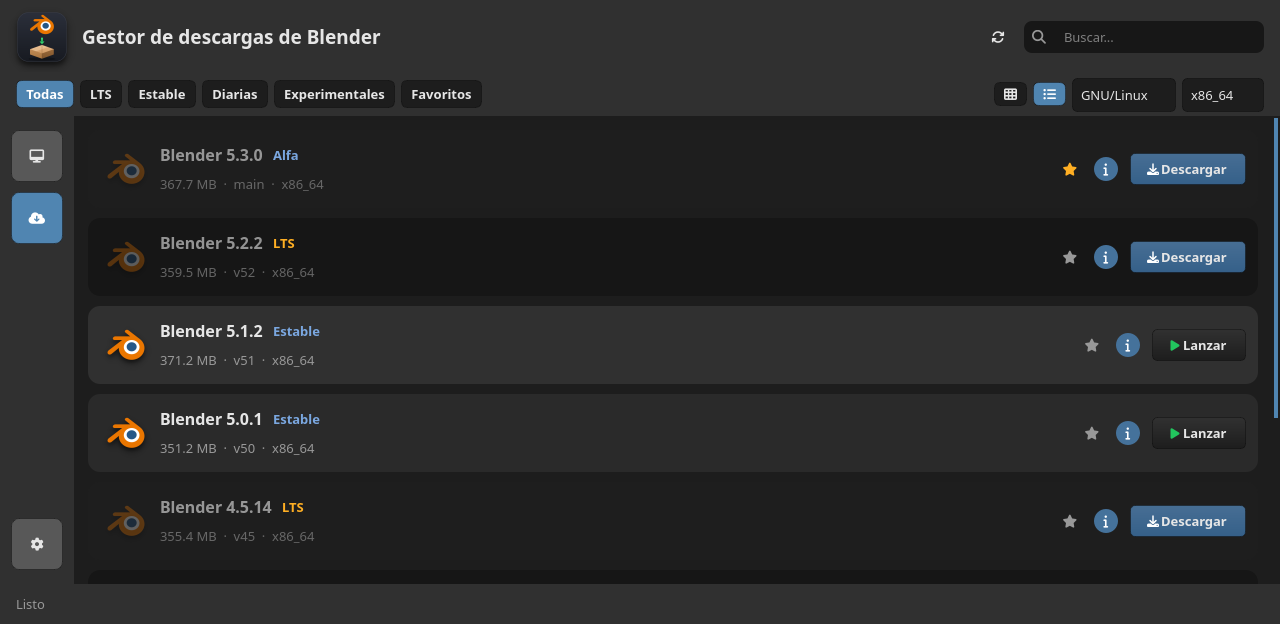
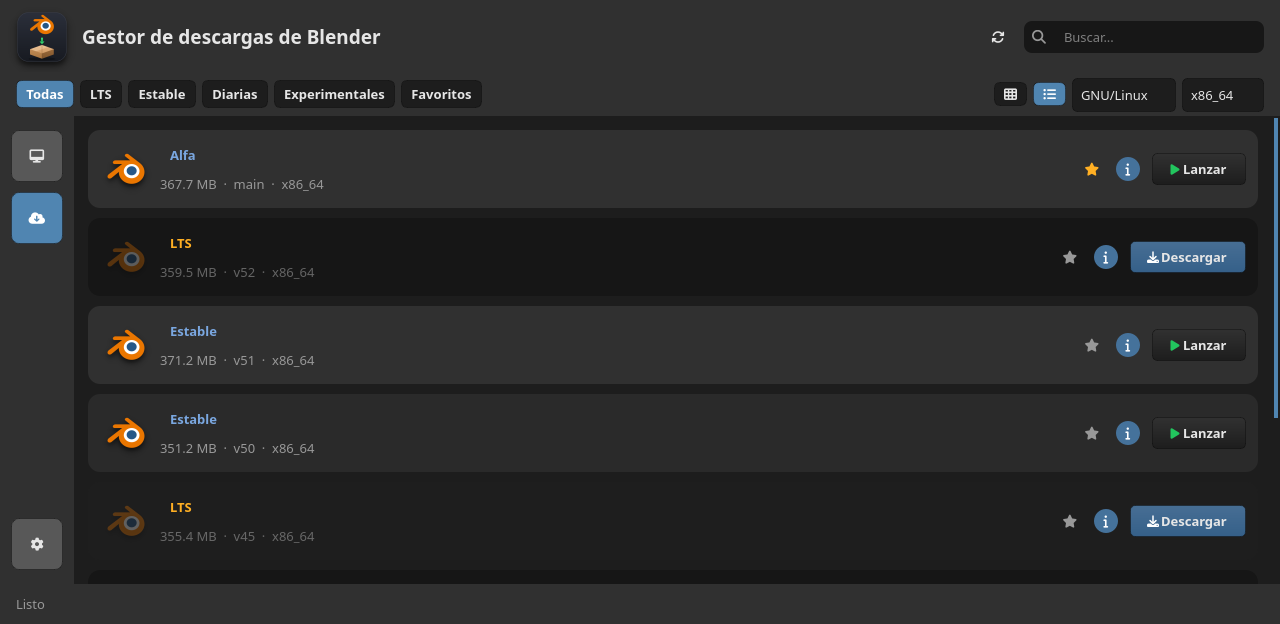
fix(ui): los nombres largos ya no ensanchan su columna (etiquetas que recortan)
Reportado: la 5.3.0 alpha, con su nombre de carpeta kilometrico, hacia que SU
columna de la rejilla fuese mas ancha que las demas y que las tarjetas no
midieran lo mismo.

La causa es que un QLabel pide como ancho minimo el texto completo. Medido:

- Rejilla: el `Title` de una instalada pedia 483 px y arrastraba su tarjeta a
  507 px mientras las otras quedaban en 249/248.
- Rejilla de la tienda: el meta (rama - tamano - arquitectura) pedia 333 px con
  una rama experimental larga (tarjeta de 361 en vez de 251).
- Lista: el nombre 483 px MAS el meta con la ruta 666 px dejaban la tarjeta en
  974 px dentro de una ventana de 900.

Ahora hay `ElidedLabel` (ui/widgets/labels.py):

- Pinta el texto recortado con `...` segun el ancho que tenga en ese momento:
  ElideMiddle para nombres de fichero (conserva el principio y el final, que es
  lo que identifica) y ElideRight para los metas.
- `minimumSizeHint().width()` es 0 y la politica es Ignored: no empuja el layout.
  Resultado medido: las tres tarjetas de la rejilla pasan a 335/334/335 con
  minimos iguales (230), y la tarjeta de lista baja de 974 a 308 px.
- El texto completo sigue en `text()` y en el tooltip, que solo se pone cuando
  de verdad se recorta. Al ir en la etiqueta, aparece con el raton encima del
  texto, como se pidio.
- Se pinta con `style().drawItemText` y el palette, no con un QPainter suelto,
  para que sigan mandando el QSS y el `setStyleSheet` puntual de los titulos no
[…]

diff --git a/tests/test_ui.py b/tests/test_ui.py
@@ -589,6 +589,95 @@ class SourceUpdateUiTests(SettingsIsolated, unittest.TestCase):
 
 
 @unittest.skipUnless(HAVE_QT, "PySide6 no instalado")
+class ElideTests(SettingsIsolated, unittest.TestCase):
+    """Los nombres largos no deben ensanchar su columna ni salirse de la ventana."""
+
+    LARGO = "blender-5.3.0-alpha+main.1fd06ddba680-linux.x86_64-release"
+
+    @classmethod
+    def setUpClass(cls):
+        cls.app = QApplication.instance() or QApplication([])
+        from ui import fonts, qss
+
+        fonts.load()
+        cls.app.setStyleSheet(qss.build_qss())
+
+    def _entrada(self, nombre):
+        from pathlib import Path
+
+        from services.installed import InstalledBuild
+
+        return InstalledBuild(name=nombre,
+                              path=Path("/home/u/Descargas/Blenders") / nombre,
+                              version="5.3.0", branch="v53")
+
+    def test_rejilla_con_nombre_largo_deja_las_columnas_iguales(self):
+        from PySide6.QtWidgets import QGridLayout, QWidget
+
+        from ui.widgets.cards import GridInstalledCard
+
+        panel = QWidget()
+        panel.resize(1060, 300)
+        grid = QGridLayout(panel)
+        grid.setContentsMargins(14, 14, 14, 14)
+        grid.setSpacing(14)
+        for columna in range(3):
+            grid.setColumnStretch(columna, 1)
+        nombres = [self.LARGO, "blender-5.2.0", "blender-5.1.2-linux-x64"]
+        for indice, nombre in enumerate(nombres):
+            grid.addWidget(GridInstalledCard(self._entrada(nombre), False, 1.0),
+                           0, indice)
+        panel.show()
+        self.app.processEvents()
+
+        # El minimo ya no depende del texto (antes la larga pedia 507 px).
+        minimos = {grid.itemAtPosition(0, i).widget().minimumSizeHint().width()
+                   for i in range(3)}
+        self.assertEqual(len(minimos), 1)
+        # Y en pantalla las tres ocupan lo mismo (1 px arriba o abajo, que es el
+        # redondeo de repartir el ancho entre tres).
+        anchos = [grid.itemAtPosition(0, i).widget().width() for i in range(3)]
+        self.assertLessEqual(max(anchos) - min(anchos), 1)
+
+    def test_lista_con_ruta_larga_cabe_en_la_ventana(self):
+        from PySide6.QtWidgets import QHBoxLayout, QWidget
+
+        from ui.widgets.cards import InstalledCard
+
+        panel = QWidget()
+        panel.resize(900, 200)
+        lay = QHBoxLayout(panel)
+        tarjeta = InstalledCard(self._entrada(self.LARGO), False)
+        lay.addWidget(tarjeta)
+        panel.show()
+        self.app.processEvents()
+        # Antes necesitaba 974 px (el nombre 483 + el meta con la ruta 666).
+        self.assertLess(tarjeta.minimumSizeHint().width(), 500)
+
+    def test_la_etiqueta_recorta_y_solo_avisa_si_no_cabe(self):
+        from PySide6.QtCore import Qt
+
+        from ui.widgets.labels import ElidedLabel
+
+        etiqueta = ElidedLabel(self.LARGO, Qt.ElideMiddle)
+        etiqueta.setFixedWidth(300)
+        etiqueta.show()
+        self.app.processEvents()
+        self.assertTrue(etiqueta.is_elided())
+        self.assertIn("…", etiqueta.displayed_text())
+        # El texto completo sigue en text() y en el tooltip...
+        self.assertEqual(etiqueta.text(), self.LARGO)
+        self.assertEqual(etiqueta.toolTip(), self.LARGO)
+
+        etiqueta.setFixedWidth(900)
+        self.app.processEvents()
+        # ...pero si cabe entero, el tooltip desaparece (no repite lo que ya se ve).
+        self.assertFalse(etiqueta.is_elided())
+        self.assertEqual(etiqueta.displayed_text(), self.LARGO)
+        self.assertEqual(etiqueta.toolTip(), "")
+
+
+@unittest.skipUnless(HAVE_QT, "PySide6 no instalado")
 class UninstallTests(SettingsIsolated, unittest.TestCase):
     """Borrar una version instalada: el boton de la papelera."""
 

diff --git a/src/ui/widgets/labels.py b/src/ui/widgets/labels.py
@@ -1,0 +1,80 @@
+"""Etiquetas que recortan el texto en vez de ensanchar su columna.
+
+``QLabel`` pide como ancho mínimo el texto completo. En una tarjeta eso es una
+trampa: el nombre de una carpeta instalada
+(``blender-5.3.0-alpha+main.1fd06ddba680-linux.x86_64-release``) mide 483 px, así
+que su tarjeta pedía 507 px mientras las de al lado se quedaban en 249 y la
+columna de la rejilla salía más ancha que las demás. En modo lista, el meta con
+la ruta pedía 666 px y la tarjeta entera 974 px en una ventana de 900.
+"""
+
+from PySide6.QtCore import QSize, Qt
+from PySide6.QtGui import QPainter
+from PySide6.QtWidgets import QLabel, QSizePolicy
+
+
+class ElidedLabel(QLabel):
+    """``QLabel`` que pinta el texto recortado con ``…`` cuando no cabe.
+
+    - El texto completo sigue disponible en ``text()`` y en el **tooltip**, que
+      solo se pone mientras se está recortando de verdad. Como el tooltip va en
+      la propia etiqueta, aparece al pasar el ratón por encima del texto.
+    - ``minimumSizeHint().width()`` es 0 y la política de tamaño es ``Ignored``:
+      la etiqueta nunca pide más sitio del que hay, así que no deforma la
+      rejilla.
+    - El recorte se decide al pintar, con el ancho del momento: ``ElideMiddle``
+      para nombres de fichero (conserva el principio y el final, que es lo que
+      identifica: ``blender-5.3.0-alpha+main…x86_64-release``) y ``ElideRight``
+      para textos donde lo importante va delante.
+    """
+
+    # Por defecto a la derecha, que es lo prudente para un texto cualquiera.
+    _mode = Qt.ElideRight
+
+    def __init__(self, text: str = "", mode=Qt.ElideRight, parent=None):
+        super().__init__(text, parent)
+        self._mode = mode
+        self.setMinimumWidth(0)
+        self.setSizePolicy(QSizePolicy.Ignored, QSizePolicy.Preferred)
+        self._actualizar_tooltip()
+
+    def minimumSizeHint(self) -> QSize:
+        """Alto el de siempre, ancho 0: el texto no manda sobre el layout."""
+        hint = super().minimumSizeHint()
+        return QSize(0, hint.height())
+
+    def displayed_text(self) -> str:
+        """Lo que se está viendo ahora mismo (recortado, si hace falta)."""
+        return self.fontMetrics().elidedText(self.text(), self._mode,
+                                             self.contentsRect().width())
+
+    def is_elided(self) -> bool:
+        """True si el texto no cabe y se está mostrando recortado."""
+        return self.displayed_text() != self.text()
+
+    def resizeEvent(self, event):
+        super().resizeEvent(event)
+        # Cambia el ancho (o el zoom, que rehace la tarjeta): el tooltip deja de
+        # tener sentido en cuanto el nombre se ve entero.
+        self._actualizar_tooltip()
+
+    def setText(self, text: str) -> None:  # noqa: N802 (API de Qt)
+        super().setText(text)
+        self._actualizar_tooltip()
+
+    def _actualizar_tooltip(self) -> None:
+        self.setToolTip(self.text() if self.is_elided() else "")
+
+    def paintEvent(self, event):
+        """Se pinta con el estilo, no con un ``QPainter`` a mano.
+
+        Así siguen mandando el color del QSS (``Title``, ``Muted``, ``Info``...) y
+        hasta el ``setStyleSheet`` puntual que llevan algunas tarjetas, que es
+        exactamente lo que hace un ``QLabel`` normal.
+        """
+        painter = QPainter(self)
+        self.style().drawItemText(
+            painter, self.contentsRect(), int(self.alignment()),
+            self.palette(), self.isEnabled(), self.displayed_text(),
+            self.foregroundRole())
+        painter.end()

diff --git a/src/ui/widgets/cards.py b/src/ui/widgets/cards.py
@@ -20,6 +20,7 @@ from paths import ASSETS_DIR
 from ui import icons
 from ui import theme as t
 from ui.widgets.buttons import CardButton, IconLinkButton, StarButton
+from ui.widgets.labels import ElidedLabel
 
 _LOGO = ASSETS_DIR / "images" / "blender_logo.png"
 
@@ -220,7 +221,7 @@ class BuildCard(BaseBuildCard):
         text_col.setSpacing(3)
         top = QHBoxLayout()
         top.setSpacing(10)
-        title = QLabel(f"Blender {self.version}")
+        title = ElidedLabel(f"Blender {self.version}", Qt.ElideMiddle)
         title.setObjectName("Title")
         if not installed:
             title.setStyleSheet("color: rgba(230,230,230,0.6);")
@@ -228,9 +229,8 @@ class BuildCard(BaseBuildCard):
         top.addWidget(self._badge())
         top.addStretch()
         text_col.addLayout(top)
-        meta = QLabel(self.meta_text)
+        meta = ElidedLabel(self.meta_text, Qt.ElideRight)
         meta.setObjectName("Muted")
-        meta.setTextInteractionFlags(Qt.NoTextInteraction)
         if not installed:
             meta.setStyleSheet("color: rgba(152,152,152,0.6);")
         text_col.addWidget(meta)
@@ -282,14 +282,15 @@ class GridBuildCard(BaseBuildCard):
         logo.setAlignment(Qt.AlignHCenter)
         lay.addWidget(logo)
 
-        title = QLabel(f"Blender {self.version}")
+        title = ElidedLabel(f"Blender {self.version}", Qt.ElideMiddle)
         title.setObjectName("Title")
         title.setAlignment(Qt.AlignHCenter)
         if not installed:
             title.setStyleSheet("color: rgba(230,230,230,0.6);")
         lay.addWidget(title)
 
-        sub = QLabel(f"{self.channel_text}  ·  {self.meta_text}")
+        sub = ElidedLabel(f"{self.channel_text}  ·  {self.meta_text}",
+                          Qt.ElideRight)
         sub.setObjectName("Warning" if self.is_lts else "Info")
         sub.setAlignment(Qt.AlignHCenter)
         lay.addWidget(sub)
@@ -344,10 +345,11 @@ class InstalledCard(_HoverCard, QFrame):
 
         text_col = QVBoxLayout()
         text_col.setSpacing(2)
-        title = QLabel(entry.name)
+        title = ElidedLabel(entry.name, Qt.ElideMiddle)
         title.setObjectName("Title")
         text_col.addWidget(title)
-        meta = QLabel(f"Blender {entry.version}   ·   {entry.path}")
+        meta = ElidedLabel(f"Blender {entry.version}   ·   {entry.path}",
+                           Qt.ElideRight)
         meta.setObjectName("Muted")
         text_col.addWidget(meta)
         lay.addLayout(text_col, 1)
@@ -401,12 +403,12 @@ class GridInstalledCard(_HoverCard, QFrame):
         logo.setAlignment(Qt.AlignHCenter)
         lay.addWidget(logo)
 
-        title = QLabel(entry.name)
+        title = ElidedLabel(entry.name, Qt.ElideMiddle)
         title.setObjectName("Title")
         title.setAlignment(Qt.AlignHCenter)
         lay.addWidget(title)
 
-        meta = QLabel(f"Blender {entry.version}")
+        meta = ElidedLabel(f"Blender {entry.version}", Qt.ElideRight)
         meta.setObjectName("Muted")
         meta.setAlignment(Qt.AlignHCenter)
         lay.addWidget(meta)

diff --git a/src/ui/widgets/__init__.py b/src/ui/widgets/__init__.py
@@ -22,6 +22,7 @@ from ui.widgets.cards import (
     GridInstalledCard,
     InstalledCard,
 )
+from ui.widgets.labels import ElidedLabel
 from ui.widgets.dialogs import (
     AppDialog,
     ProgressDialog,
@@ -37,6 +38,7 @@ __all__ = [
     "BuildCard",
     "CardButton",
     "GridBuildCard",
+    "ElidedLabel",
     "GridInstalledCard",
     "IconFlatButton",
     "IconLinkButton",

diff --git a/AGENTS.md b/AGENTS.md
@@ -160,6 +160,14 @@ minor** (`v1.3.0`).
 
 ### Reglas que no hay que romper
 
+- **Una etiqueta con texto que puede ser largo se hace con `ElidedLabel`**
+  (`ui/widgets/labels.py`), nunca con un `QLabel` pelado. Un `QLabel` pide como
+  ancho mínimo el texto **completo**, así que deforma el layout: el nombre de una
+  carpeta instalada medía 483 px y arrastraba su tarjeta a 507 px en la rejilla
+  mientras las de al lado se quedaban en 249 (columnas desiguales), y en lista el
+  meta con la ruta la llevaba a 974 px en una ventana de 900. `ElidedLabel`
+  recorta con `…` al pintar, deja el texto entero en `text()` y en el tooltip
+  (solo cuando no cabe) y no pide ancho. Para nombres de fichero, `ElideMiddle`.
 - **El "look" va en `ui/qss.py`, no en el código.** Un widget nuevo se estiliza
   dándole un `objectName` (o una propiedad dinámica, p. ej. `variant` en
   `CardButton`) y añadiendo la regla al QSS. Ojo con la especificidad: en QSS
